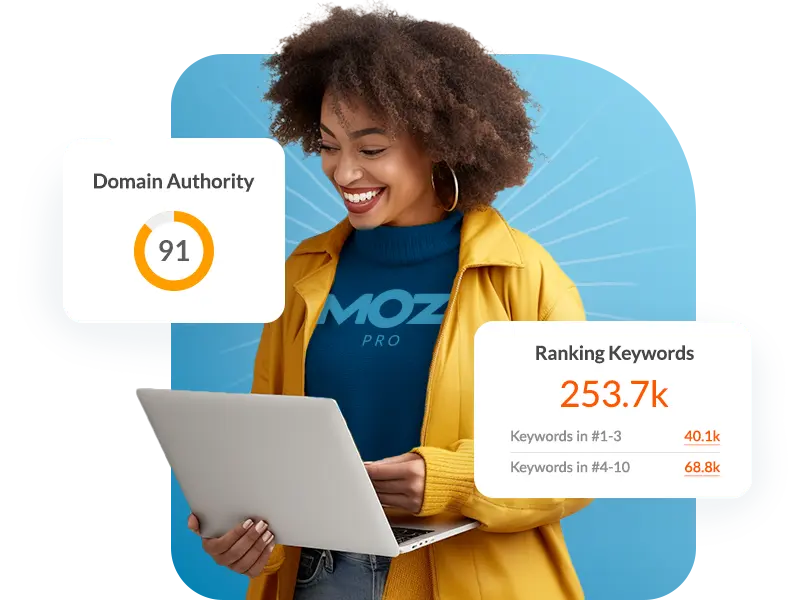
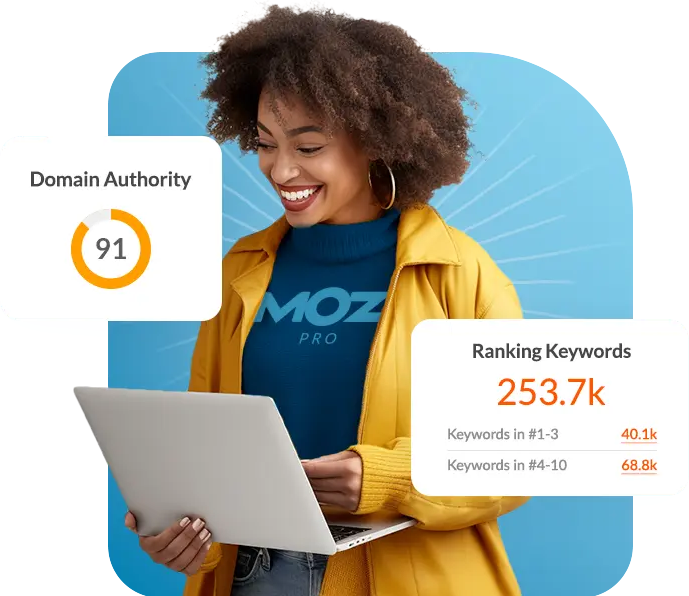
re-form the hero section

diff --git a/index.html b/index.html
@@ -1,183 +1,173 @@
 <!DOCTYPE html>
 <html lang="en" data-theme="light">
+
 <head>
-    <meta charset="UTF-8">
-    <meta name="viewport" content="width=device-width, initial-scale=1.0">
-    <title>Health Care SEO Service</title>
-    <link rel="stylesheet" href="style.css">
+  <meta charset="UTF-8">
+  <meta name="viewport" content="width=device-width, initial-scale=1.0">
+  <title>Health Care SEO Service</title>
+  <link rel="stylesheet" href="style.css">
 
 
-    <!--Tailwind and daisy UI CDN-->
-    <link href="https://cdn.jsdelivr.net/npm/daisyui@4.12.23/dist/full.min.css" rel="stylesheet" type="text/css" />
-    <script src="https://cdn.tailwindcss.com"></script>
+  <!--Tailwind and daisy UI CDN-->
+  <link href="https://cdn.jsdelivr.net/npm/daisyui@4.12.23/dist/full.min.css" rel="stylesheet" type="text/css" />
+  <script src="https://cdn.tailwindcss.com"></script>
 
-    <link rel="stylesheet" href="https://cdnjs.cloudflare.com/ajax/libs/font-awesome/6.7.2/css/all.min.css" integrity="sha512-Evv84Mr4kqVGRNSgIGL/F/aIDqQb7xQ2vcrdIwxfjThSH8CSR7PBEakCr51Ck+w+/U6swU2Im1vVX0SVk9ABhg==" crossorigin="anonymous" referrerpolicy="no-referrer" />
+  <!-- google font cdn -->
+  <link rel="preconnect" href="https://fonts.googleapis.com">
+  <link rel="preconnect" href="https://fonts.gstatic.com" crossorigin>
+  <link
+    href="https://fonts.googleapis.com/css2?family=Poppins:ital,wght@0,100;0,200;0,300;0,400;0,500;0,600;0,700;0,800;0,900;1,100;1,200;1,300;1,400;1,500;1,600;1,700;1,800;1,900&display=swap"
+    rel="stylesheet">
 
-    <style>
+  <!-- font awsom cdn -->
+  <link rel="stylesheet" href="https://cdnjs.cloudflare.com/ajax/libs/font-awesome/6.7.2/css/all.min.css"
+    integrity="sha512-Evv84Mr4kqVGRNSgIGL/F/aIDqQb7xQ2vcrdIwxfjThSH8CSR7PBEakCr51Ck+w+/U6swU2Im1vVX0SVk9ABhg=="
+    crossorigin="anonymous" referrerpolicy="no-referrer" />
 
-        .background{
-            background-image: url(asset/grungy-white-background-natural-cement-stone-old-texture-as-retro-pattern-wall-conceptual-wall-banner-grunge-material-construction.jpg);
-            background-repeat: no-repeat;
-            background-attachment: fixed;
-            background-size: cover;
-        }
-    </style>
+  <style>
+    * {
+      font-family: "Poppins", sans-serif;
 
-<body class="background">
-    <header class=" px-[16px] md:px-[40px] lg:px-[140px]">
-         <!--navigation Bar-->
-        <nav class="">
-            <div class="flex flex-row justify-between items-center">
-                 <!--Logo-->
-                <div class="">
-                  <a class=" text-xl text-white">SEO Exparts</a>
-                </div>
+    }
 
-                <!--navigation-->
-                <div class=" hidden lg:contents">
-                  <ul class="menu menu-horizontal px-1 text-white flex-1 justify-end">
-                    <li><a>Home</a></li>
-                    <li><a>Key Service</a></li>
-                    <li><a>Benefits</a></li>
-                    <li><a>Review</a></li>
-                    <li><a>Blog</a></li>
-                    <li><a>Contact</a></li>
-                  </ul>
-                </div>
+    .background {
+      background-image: url(asset/grungy-white-background-natural-cement-stone-old-texture-as-retro-pattern-wall-conceptual-wall-banner-grunge-material-construction.jpg);
+      background-repeat: no-repeat;
+      background-attachment: fixed;
+      background-size: cover;
+    }
+  </style>
 
+<body class="background text-white">
+  <header class=" px-[16px] md:px-[40px] lg:px-[140px]">
+    <!--navigation Bar-->
+    <nav class="py-[16px] lg:py-[30px]">
+      <div class="flex flex-row justify-between items-center">
+        <!--Logo-->
+        <div class="">
+          <a class="text-xl lg:text-[30px] font-bold text-white">SEO Exparts</a>
+        </div>
 
-                <!--manu icon lg:hidden mid and small devise vissible-->
-                <div class=" ">
-                    <div class="dropdown">
-                      <div tabindex="0" role="button" class="btn btn-ghost lg:hidden text-white">
-                        <svg
-                          xmlns="http://www.w3.org/2000/svg"
-                          class="h-5 w-5"
-                          fill="none"
-                          viewBox="0 0 24 24"
-                          stroke="currentColor">
-                          <path
-                            stroke-linecap="round"
-                            stroke-linejoin="round"
-                            stroke-width="2"
-                            d="M4 6h16M4 12h8m-8 6h16" />
-                        </svg>
-                      </div>
-                      <ul tabindex="0"
-                        class="dropdown-content bg-base-100 rounded-box z-[1] mt-3 w-52 p-4 shadow right-0 ">
-                        <li class="hover:text-yellow-500"><a>Home</a></li>
-                        <li class="hover:text-yellow-500"><a>Key Service</a></li>
-                        <li class="hover:text-yellow-500"><a>Benefits</a></li>
-                        <li class="hover:text-yellow-500"><a>Review</a></li>
-                        <li class="hover:text-yellow-500"><a>Blog</a></li>
-                        <li class="hover:text-yellow-500"><a>Contact</a></li>
-                      </ul>
-                    </div>
-                </div>
-        
-        </nav>
-
-        <!--hero section-->
-        <section class="text-white">
-            <div class="hero  min-h-screen">
-                <div class="hero-content flex-col lg:flex-row-reverse">
-                  <img
-                    src="asset/moz-tools_moz-pro.png"
-                    class="max-w-sm rounded-lg shadow-2xl" />
-                  <div>
-                    <h1 class="text-5xl font-bold">SEO Solutions for Small <span class="text-[#FFCA00] animate-pulse">Businesses <br>Boost</span> Your Online Presence</h1>
-                    <p class="py-6">
-                        Rank higher on Google, get more traffic, and increase <br> sales with our tailored SEO strategies
-                    </p>
-                    <button class="btn btn-primary">Get Started</button>
-                  </div>
-                </div>
-              </div>
-        </section>
-
-    </header>
-
-    <footer class="footer bg-base-200  text-black p-[16px] md:p-[40px] lg:p-[140px]">
-        <aside>
-            <svg
-            width="50"
-            height="50"
-            viewBox="0 0 24 24"
-            xmlns="http://www.w3.org/2000/svg"
-            fill-rule="evenodd"
-            clip-rule="evenodd"
-            class="fill-current">
-            <path
-                d="M22.672 15.226l-2.432.811.841 2.515c.33 1.019-.209 2.127-1.23 2.456-1.15.325-2.148-.321-2.463-1.226l-.84-2.518-5.013 1.677.84 2.517c.391 1.203-.434 2.542-1.831 2.542-.88 0-1.601-.564-1.86-1.314l-.842-2.516-2.431.809c-1.135.328-2.145-.317-2.463-1.229-.329-1.018.211-2.127 1.231-2.456l2.432-.809-1.621-4.823-2.432.808c-1.355.384-2.558-.59-2.558-1.839 0-.817.509-1.582 1.327-1.846l2.433-.809-.842-2.515c-.33-1.02.211-2.129 1.232-2.458 1.02-.329 2.13.209 2.461 1.229l.842 2.515 5.011-1.677-.839-2.517c-.403-1.238.484-2.553 1.843-2.553.819 0 1.585.509 1.85 1.326l.841 2.517 2.431-.81c1.02-.33 2.131.211 2.461 1.229.332 1.018-.21 2.126-1.23 2.456l-2.433.809 1.622 4.823 2.433-.809c1.242-.401 2.557.484 2.557 1.838 0 .819-.51 1.583-1.328 1.847m-8.992-6.428l-5.01 1.675 1.619 4.828 5.011-1.674-1.62-4.829z"></path>
-            </svg>
-            <p>
-            ACME Industries Ltd.
-            <br />
-            Providing reliable tech since 1992
-            </p>
-        </aside>
-        <nav>
-            <h6 class="footer-title">Services</h6>
-            <a class="link link-hover">Keyword Research
-            </a>
-            <a class="link link-hover">On-page SEO
-            </a>
-            <a class="link link-hover">Technical SEO</a>
-            <a class="link link-hover">Backlinks</a>
-            <a class="link link-hover">Blog Posts</a>
-            <a class="link link-hover">Analytics</a>
-            <a class="link link-hover">Digital PR</a>
-            <a class="link link-hover">Local SEO</a>
-            <a class="link link-hover">SEO Plugin</a>
-        </nav>
-        <nav>
-            <h6 class="footer-title">Technical SEO
-            </h6>
-            <a class="link link-hover">Home </a>
-            <a class="link link-hover">Key services </a>
-            <a class="link link-hover">Benefits</a>
-            <a class="link link-hover">Review</a>
-            <a class="link link-hover">Blog</a>
-            <a class="link link-hover">Contact </a>
-        </nav>
-        <nav>
-            <h6 class="footer-title">Social</h6>
-            <div class="flex gap-4">
-            <a>
-                <svg
-                xmlns="http://www.w3.org/2000/svg"
-                width="24"
-                height="24"
-                viewBox="0 0 24 24"
-                className="fill-current">
-                <path
-                    d="M24 4.557c-.883.392-1.832.656-2.828.775 1.017-.609 1.798-1.574 2.165-2.724-.951.564-2.005.974-3.127 1.195-.897-.957-2.178-1.555-3.594-1.555-3.179 0-5.515 2.966-4.797 6.045-4.091-.205-7.719-2.165-10.148-5.144-1.29 2.213-.669 5.108 1.523 6.574-.806-.026-1.566-.247-2.229-.616-.054 2.281 1.581 4.415 3.949 4.89-.693.188-1.452.232-2.224.084.626 1.956 2.444 3.379 4.6 3.419-2.07 1.623-4.678 2.348-7.29 2.04 2.179 1.397 4.768 2.212 7.548 2.212 9.142 0 14.307-7.721 13.995-14.646.962-.695 1.797-1.562 2.457-2.549z"></path>
-                </svg>
-            </a>
-            <a>
-                <svg
-                xmlns="http://www.w3.org/2000/svg"
-                width="24"
-                height="24"
-                viewBox="0 0 24 24"
-                className="fill-current">
-                <path
-                    d="M19.615 3.184c-3.604-.246-11.631-.245-15.23 0-3.897.266-4.356 2.62-4.385 8.816.029 6.185.484 8.549 4.385 8.816 3.6.245 11.626.246 15.23 0 3.897-.266 4.356-2.62 4.385-8.816-.029-6.185-.484-8.549-4.385-8.816zm-10.615 12.816v-8l8 3.993-8 4.007z"></path>
-                </svg>
-            </a>
-            <a>
-                <svg
-                xmlns="http://www.w3.org/2000/svg"
-                width="24"
-                height="24"
-                viewBox="0 0 24 24"
-                className="fill-current">
-                <path
-                    d="M9 8h-3v4h3v12h5v-12h3.642l.358-4h-4v-1.667c0-.955.192-1.333 1.115-1.333h2.885v-5h-3.808c-3.596 0-5.192 1.583-5.192 4.615v3.385z"></path>
-                </svg>
-            </a>
+        <!--navigation-->
+        <div class=" hidden lg:contents">
+          <ul class="text-[16px] font-semibold menu menu-horizontal px-1 text-white flex-1 justify-end">
+            <li class="hover:bg-[white] hover:text-black rounded-[5px]"><a>Home</a></li>
+            <li class="hover:bg-[white] hover:text-black rounded-[5px]"><a>Benefits</a></li>
+            <li class="hover:bg-[white] hover:text-black rounded-[5px]"><a>Review</a></li>
+            <li class="hover:bg-[white] hover:text-black rounded-[5px]"><a>Blog</a></li>
+            <li class="hover:bg-[white] hover:text-black rounded-[5px]"><a>Contact</a></li>
+          </ul>
+        </div>
+        <!--manu icon lg:hidden mid and small devise vissible-->
+        <div class=" ">
+          <div class="dropdown">
+            <div tabindex="0" role="button" class="btn btn-ghost lg:hidden text-white">
+              <svg xmlns="http://www.w3.org/2000/svg" class="h-5 w-5" fill="none" viewBox="0 0 24 24"
+                stroke="currentColor">
+                <path stroke-linecap="round" stroke-linejoin="round" stroke-width="2" d="M4 6h16M4 12h8m-8 6h16" />
+              </svg>
             </div>
-        </nav>
-    </footer>
+            <ul tabindex="0"
+              class="text-black dropdown-content bg-base-100 rounded-box z-[1] mt-3 w-52 p-4 shadow right-0 ">
+              <li class=" hover:text-yellow-500"><a>Home</a></li>
+              <li class="hover:text-yellow-500"><a>Key Service</a></li>
+              <li class="hover:text-yellow-500"><a>Benefits</a></li>
+              <li class="hover:text-yellow-500"><a>Review</a></li>
+              <li class="hover:text-yellow-500"><a>Blog</a></li>
+              <li class="hover:text-yellow-500"><a>Contact</a></li>
+            </ul>
+          </div>
+        </div>
+
+    </nav>
+
+    <!--hero section-->
+    <section class="mb-[90px]">
+      <div class="flex flex-col-reverse lg:flex-row items-center justify-center lg:justify-between gap-y-[20px]">
+        <div class="space-y-[68px] text-center lg:text-start">
+          <div class="flex flex-col gap-y-[12px]">
+            <h1 class="text-[26px] lg:text-[36px] font-bold">SEO Solutions for Small <span
+                class="animate-pulse text-[#FFCA00]">Businesses<br>Boost</span> Your Online Presence</h1>
+            <p class="text-[12px] lg:text-[16px] font-medium">Rank higher on Google, get more traffic, and increase <br> sales with our
+              tailored SEO strategies</p>
+          </div>
+          <button class="btn text-[10px] lg:text-[14px]">Get a your business with SEO Exparts<i
+              class=" text-[16px] fa-solid fa-arrow-right"></i></button>
+        </div>
+        <img class="w-[200px] md:w-[400px] lg:w-[600px]" src="asset/moz-tools_moz-pro.png" alt="">
+      </div>
+    </section>
+
+  </header>
+
+
+
+  <!-- footer -->
+  <footer class="footer bg-blue-200  text-black p-[16px] md:p-[40px] lg:p-[140px]">
+    <aside>
+      <svg width="50" height="50" viewBox="0 0 24 24" xmlns="http://www.w3.org/2000/svg" fill-rule="evenodd"
+        clip-rule="evenodd" class="fill-current">
+        <path
+          d="M22.672 15.226l-2.432.811.841 2.515c.33 1.019-.209 2.127-1.23 2.456-1.15.325-2.148-.321-2.463-1.226l-.84-2.518-5.013 1.677.84 2.517c.391 1.203-.434 2.542-1.831 2.542-.88 0-1.601-.564-1.86-1.314l-.842-2.516-2.431.809c-1.135.328-2.145-.317-2.463-1.229-.329-1.018.211-2.127 1.231-2.456l2.432-.809-1.621-4.823-2.432.808c-1.355.384-2.558-.59-2.558-1.839 0-.817.509-1.582 1.327-1.846l2.433-.809-.842-2.515c-.33-1.02.211-2.129 1.232-2.458 1.02-.329 2.13.209 2.461 1.229l.842 2.515 5.011-1.677-.839-2.517c-.403-1.238.484-2.553 1.843-2.553.819 0 1.585.509 1.85 1.326l.841 2.517 2.431-.81c1.02-.33 2.131.211 2.461 1.229.332 1.018-.21 2.126-1.23 2.456l-2.433.809 1.622 4.823 2.433-.809c1.242-.401 2.557.484 2.557 1.838 0 .819-.51 1.583-1.328 1.847m-8.992-6.428l-5.01 1.675 1.619 4.828 5.011-1.674-1.62-4.829z">
+        </path>
+      </svg>
+      <p>
+        ACME Industries Ltd.
+        <br />
+        Providing reliable tech since 1992
+      </p>
+    </aside>
+    <nav>
+      <h6 class="footer-title">Services</h6>
+      <a class="link link-hover">Keyword Research
+      </a>
+      <a class="link link-hover">On-page SEO
+      </a>
+      <a class="link link-hover">Technical SEO</a>
+      <a class="link link-hover">Backlinks</a>
+      <a class="link link-hover">Blog Posts</a>
+      <a class="link link-hover">Analytics</a>
+      <a class="link link-hover">Digital PR</a>
+      <a class="link link-hover">Local SEO</a>
+      <a class="link link-hover">SEO Plugin</a>
+    </nav>
+    <nav>
+      <h6 class="footer-title">Technical SEO
+      </h6>
+      <a class="link link-hover">Home </a>
+      <a class="link link-hover">Key services </a>
+      <a class="link link-hover">Benefits</a>
+      <a class="link link-hover">Review</a>
+      <a class="link link-hover">Blog</a>
+      <a class="link link-hover">Contact </a>
+    </nav>
+    <nav>
+      <h6 class="footer-title">Social</h6>
+      <div class="flex gap-4">
+        <a>
+          <svg xmlns="http://www.w3.org/2000/svg" width="24" height="24" viewBox="0 0 24 24" className="fill-current">
+            <path
+              d="M24 4.557c-.883.392-1.832.656-2.828.775 1.017-.609 1.798-1.574 2.165-2.724-.951.564-2.005.974-3.127 1.195-.897-.957-2.178-1.555-3.594-1.555-3.179 0-5.515 2.966-4.797 6.045-4.091-.205-7.719-2.165-10.148-5.144-1.29 2.213-.669 5.108 1.523 6.574-.806-.026-1.566-.247-2.229-.616-.054 2.281 1.581 4.415 3.949 4.89-.693.188-1.452.232-2.224.084.626 1.956 2.444 3.379 4.6 3.419-2.07 1.623-4.678 2.348-7.29 2.04 2.179 1.397 4.768 2.212 7.548 2.212 9.142 0 14.307-7.721 13.995-14.646.962-.695 1.797-1.562 2.457-2.549z">
+            </path>
+          </svg>
+        </a>
+        <a>
+          <svg xmlns="http://www.w3.org/2000/svg" width="24" height="24" viewBox="0 0 24 24" className="fill-current">
+            <path
+              d="M19.615 3.184c-3.604-.246-11.631-.245-15.23 0-3.897.266-4.356 2.62-4.385 8.816.029 6.185.484 8.549 4.385 8.816 3.6.245 11.626.246 15.23 0 3.897-.266 4.356-2.62 4.385-8.816-.029-6.185-.484-8.549-4.385-8.816zm-10.615 12.816v-8l8 3.993-8 4.007z">
+            </path>
+          </svg>
+        </a>
+        <a>
+          <svg xmlns="http://www.w3.org/2000/svg" width="24" height="24" viewBox="0 0 24 24" className="fill-current">
+            <path
+              d="M9 8h-3v4h3v12h5v-12h3.642l.358-4h-4v-1.667c0-.955.192-1.333 1.115-1.333h2.885v-5h-3.808c-3.596 0-5.192 1.583-5.192 4.615v3.385z">
+            </path>
+          </svg>
+        </a>
+      </div>
+    </nav>
+  </footer>
 </body>
+
 </html>
